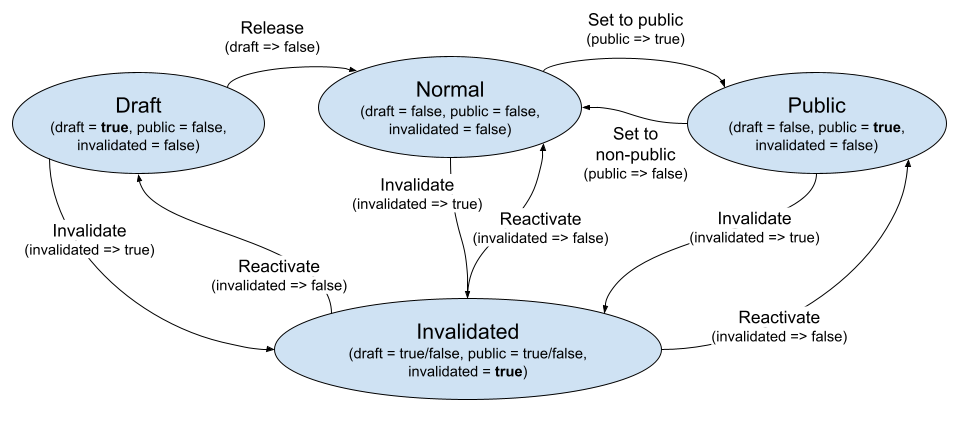
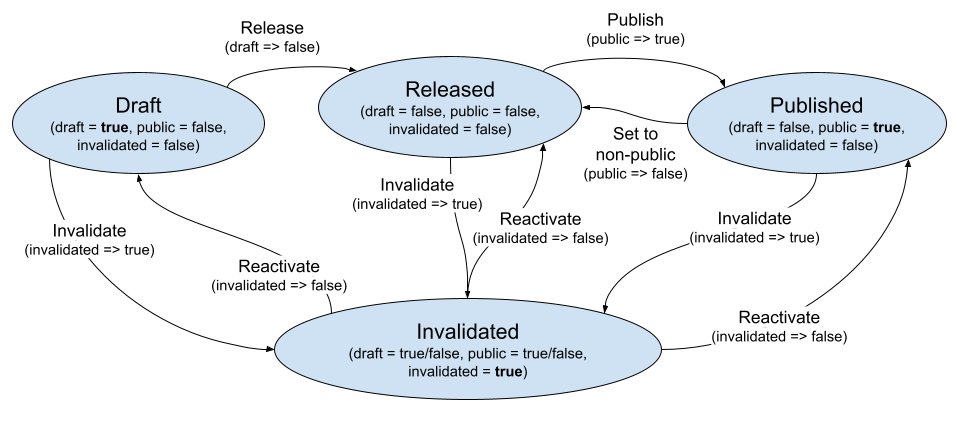
doc adjustments

Changed region(s): [[0.7879, 0.2146, 0.9091, 0.2759], [0.4242, 0.184, 0.5152, 0.2453], [0.6061, 0.0307, 0.7273, 0.0613]]

diff --git a/README.md b/README.md
@@ -431,17 +431,18 @@ According to value of the flags a dataset can be in one of these states:
           Only the author can see and use the dataset in Draft state and some properties can be modified (name/title, description).  
           The draft mode can be useful for testing datasets because they are "private" to the author.  
           Possible actions:  
-           - Release (_draft_ -> false), goes to Normal state.  
+           - Release (_draft_ -> false), goes to Released state.  
            - Invalidate (_invalidated_ -> true), goes to Invalidated state.
- - __Normal__: (_draft_ = false, _public_ = false, _invalidated_ = false)  
+ - __Released__: (_draft_ = false, _public_ = false, _invalidated_ = false)  
            When released, the dataset can't be edited anymore and all the registered users with the rol 'access_all_datasets' can see it and use it.  
            Possible actions:  
-            - Set to public (_public_ -> true) goes to Public state.  
+            - Publish (_public_ -> true) goes to Published state.  
             - Invalidate (_invalidated_ -> true), goes to Invalidated state.
- - __Public__: (_draft_ = false, _public_ = __true__, _invalidated_ = false)  
-           When published, the dataset can be seen and used by any user, including unregistered users.  
+ - __Published__: (_draft_ = false, _public_ = __true__, _invalidated_ = false)  
+           When published, the dataset can be seen and used by any registered user.
+           It can be seen (not used) by unregistered users.  
            Possible actions:  
-            - Set to non-public (_public_ -> false), goes to Normal state.  
+            - Set to non-public (_public_ -> false), returns to Released state.  
             - Invalidate (_invalidated_ -> true), goes to Invalidated state.
  - __Invalidated__: (_draft_ = true/false, _public_ = true/false, _invalidated_ = __true__)  
            Only appears in the list of the author, but anyone (who has the id or link) can see the details.  
@@ -449,7 +450,7 @@ According to value of the flags a dataset can be in one of these states:
            Anyway, a big label with the text "invalidated" should appear in details, and also in the list for the author.  
            Nobody can modify it nor use it, neither the author.  
            Possible actions:  
-            - 'Reactivate' (_invalidated_ -> false), goes to previous state (Draft, Normal or Public).
+            - 'Reactivate' (_invalidated_ -> false), goes to previous state (Draft, Released or Published).
 
 All the actions can be performed only by the author or superadmin.
 
